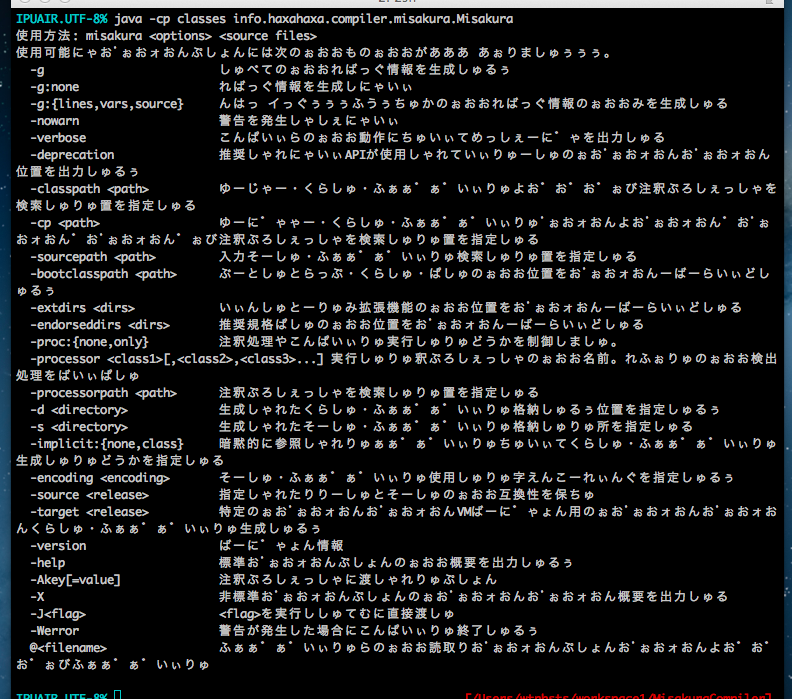
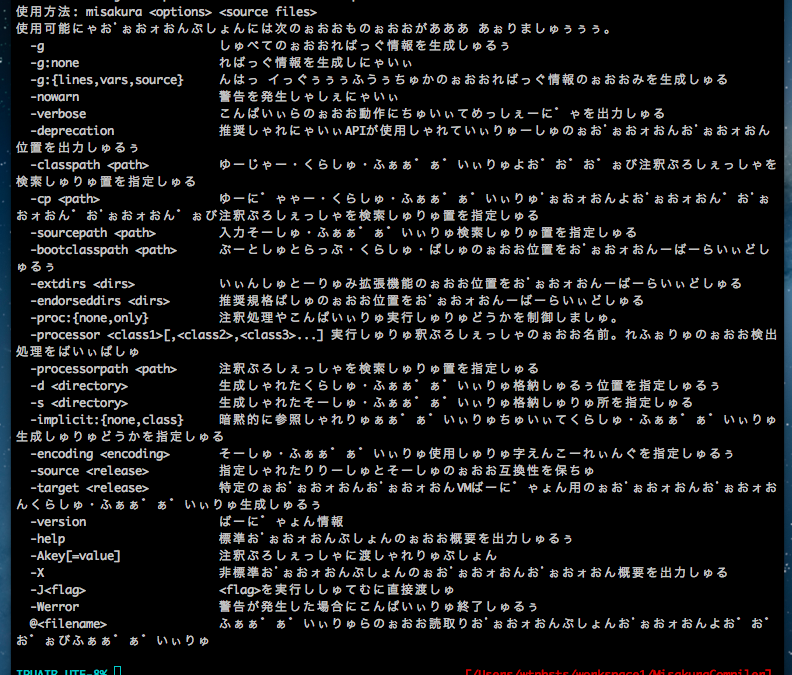
ライセンス条文追加 ピクチャのデータサイズ削減

Changed region(s): [[0.0, 0.0, 1.0, 0.9644], [0.9697, 0.4044, 1.0, 0.4356]]

diff --git a/src/info/haxahaxa/compiler/misakura/Misakura.java b/src/info/haxahaxa/compiler/misakura/Misakura.java
@@ -1,3 +1,30 @@
+/*
+ * The MIT License
+ * 
+ * Copyright (c) 2013 haxahaxa.info
+ * 
+ * Permission is hereby granted, free of charge, to any person
+ * obtaining a copy of this software and associated documentation
+ * files (the "Software"), to deal in the Software without
+ * restriction,including without limitation the rights to use,
+ * copy, modify, merge, publish, distribute, sublicense, and/or
+ * sell copies of the Software,and to permit persons to whom the
+ * Software is furnished to do so, subject to the following
+ * conditions:
+ * 
+ * The above copyright notice and this permission notice shall be
+ * included in all copies or substantial portions of the Software.
+ * 
+ * THE SOFTWARE IS PROVIDED "AS IS", WITHOUT WARRANTY OF ANY KIND,
+ * EXPRESS OR IMPLIED, INCLUDING BUT NOT LIMITED TO THE WARRANTIES
+ * OF MERCHANTABILITY, FITNESS FOR A PARTICULAR PURPOSE AND
+ * NONINFRINGEMENT. IN NO EVENT SHALL THE AUTHORS OR COPYRIGHT
+ * HOLDERS BE LIABLE FOR ANY CLAIM, DAMAGES OR OTHER LIABILITY,
+ * WHETHER IN AN ACTION OF CONTRACT, TORT OR OTHERWISE, ARISING
+ * FROM, OUT OF OR IN CONNECTION WITH THE SOFTWARE OR THE USE OR
+ * OTHER DEALINGS IN THE SOFTWARE.
+ */
+
 package info.haxahaxa.compiler.misakura;
 
 import info.haxahaxa.compiler.ArgumentImpl;

diff --git a/src/info/haxahaxa/compiler/CompileResultImpl.java b/src/info/haxahaxa/compiler/CompileResultImpl.java
@@ -1,3 +1,30 @@
+/*
+ * The MIT License
+ * 
+ * Copyright (c) 2013 haxahaxa.info
+ * 
+ * Permission is hereby granted, free of charge, to any person
+ * obtaining a copy of this software and associated documentation
+ * files (the "Software"), to deal in the Software without
+ * restriction,including without limitation the rights to use,
+ * copy, modify, merge, publish, distribute, sublicense, and/or
+ * sell copies of the Software,and to permit persons to whom the
+ * Software is furnished to do so, subject to the following
+ * conditions:
+ * 
+ * The above copyright notice and this permission notice shall be
+ * included in all copies or substantial portions of the Software.
+ * 
+ * THE SOFTWARE IS PROVIDED "AS IS", WITHOUT WARRANTY OF ANY KIND,
+ * EXPRESS OR IMPLIED, INCLUDING BUT NOT LIMITED TO THE WARRANTIES
+ * OF MERCHANTABILITY, FITNESS FOR A PARTICULAR PURPOSE AND
+ * NONINFRINGEMENT. IN NO EVENT SHALL THE AUTHORS OR COPYRIGHT
+ * HOLDERS BE LIABLE FOR ANY CLAIM, DAMAGES OR OTHER LIABILITY,
+ * WHETHER IN AN ACTION OF CONTRACT, TORT OR OTHERWISE, ARISING
+ * FROM, OUT OF OR IN CONNECTION WITH THE SOFTWARE OR THE USE OR
+ * OTHER DEALINGS IN THE SOFTWARE.
+ */
+
 package info.haxahaxa.compiler;
 
 import java.io.BufferedReader;

diff --git a/src/info/haxahaxa/compiler/IMessageBuilder.java b/src/info/haxahaxa/compiler/IMessageBuilder.java
@@ -1,3 +1,30 @@
+/*
+ * The MIT License
+ * 
+ * Copyright (c) 2013 haxahaxa.info
+ * 
+ * Permission is hereby granted, free of charge, to any person
+ * obtaining a copy of this software and associated documentation
+ * files (the "Software"), to deal in the Software without
+ * restriction,including without limitation the rights to use,
+ * copy, modify, merge, publish, distribute, sublicense, and/or
+ * sell copies of the Software,and to permit persons to whom the
+ * Software is furnished to do so, subject to the following
+ * conditions:
+ * 
+ * The above copyright notice and this permission notice shall be
+ * included in all copies or substantial portions of the Software.
+ * 
+ * THE SOFTWARE IS PROVIDED "AS IS", WITHOUT WARRANTY OF ANY KIND,
+ * EXPRESS OR IMPLIED, INCLUDING BUT NOT LIMITED TO THE WARRANTIES
+ * OF MERCHANTABILITY, FITNESS FOR A PARTICULAR PURPOSE AND
+ * NONINFRINGEMENT. IN NO EVENT SHALL THE AUTHORS OR COPYRIGHT
+ * HOLDERS BE LIABLE FOR ANY CLAIM, DAMAGES OR OTHER LIABILITY,
+ * WHETHER IN AN ACTION OF CONTRACT, TORT OR OTHERWISE, ARISING
+ * FROM, OUT OF OR IN CONNECTION WITH THE SOFTWARE OR THE USE OR
+ * OTHER DEALINGS IN THE SOFTWARE.
+ */
+
 package info.haxahaxa.compiler;
 
 import javax.tools.Diagnostic;

diff --git a/src/info/haxahaxa/compiler/SimpleMessageBuilder.java b/src/info/haxahaxa/compiler/SimpleMessageBuilder.java
@@ -1,3 +1,30 @@
+/*
+ * The MIT License
+ * 
+ * Copyright (c) 2013 haxahaxa.info
+ * 
+ * Permission is hereby granted, free of charge, to any person
+ * obtaining a copy of this software and associated documentation
+ * files (the "Software"), to deal in the Software without
+ * restriction,including without limitation the rights to use,
+ * copy, modify, merge, publish, distribute, sublicense, and/or
+ * sell copies of the Software,and to permit persons to whom the
+ * Software is furnished to do so, subject to the following
+ * conditions:
+ * 
+ * The above copyright notice and this permission notice shall be
+ * included in all copies or substantial portions of the Software.
+ * 
+ * THE SOFTWARE IS PROVIDED "AS IS", WITHOUT WARRANTY OF ANY KIND,
+ * EXPRESS OR IMPLIED, INCLUDING BUT NOT LIMITED TO THE WARRANTIES
+ * OF MERCHANTABILITY, FITNESS FOR A PARTICULAR PURPOSE AND
+ * NONINFRINGEMENT. IN NO EVENT SHALL THE AUTHORS OR COPYRIGHT
+ * HOLDERS BE LIABLE FOR ANY CLAIM, DAMAGES OR OTHER LIABILITY,
+ * WHETHER IN AN ACTION OF CONTRACT, TORT OR OTHERWISE, ARISING
+ * FROM, OUT OF OR IN CONNECTION WITH THE SOFTWARE OR THE USE OR
+ * OTHER DEALINGS IN THE SOFTWARE.
+ */
+
 package info.haxahaxa.compiler;
 
 import java.io.BufferedReader;

diff --git a/src/info/haxahaxa/compiler/ICompileResult.java b/src/info/haxahaxa/compiler/ICompileResult.java
@@ -1,3 +1,30 @@
+/*
+ * The MIT License
+ * 
+ * Copyright (c) 2013 haxahaxa.info
+ * 
+ * Permission is hereby granted, free of charge, to any person
+ * obtaining a copy of this software and associated documentation
+ * files (the "Software"), to deal in the Software without
+ * restriction,including without limitation the rights to use,
+ * copy, modify, merge, publish, distribute, sublicense, and/or
+ * sell copies of the Software,and to permit persons to whom the
+ * Software is furnished to do so, subject to the following
+ * conditions:
+ * 
+ * The above copyright notice and this permission notice shall be
+ * included in all copies or substantial portions of the Software.
+ * 
+ * THE SOFTWARE IS PROVIDED "AS IS", WITHOUT WARRANTY OF ANY KIND,
+ * EXPRESS OR IMPLIED, INCLUDING BUT NOT LIMITED TO THE WARRANTIES
+ * OF MERCHANTABILITY, FITNESS FOR A PARTICULAR PURPOSE AND
+ * NONINFRINGEMENT. IN NO EVENT SHALL THE AUTHORS OR COPYRIGHT
+ * HOLDERS BE LIABLE FOR ANY CLAIM, DAMAGES OR OTHER LIABILITY,
+ * WHETHER IN AN ACTION OF CONTRACT, TORT OR OTHERWISE, ARISING
+ * FROM, OUT OF OR IN CONNECTION WITH THE SOFTWARE OR THE USE OR
+ * OTHER DEALINGS IN THE SOFTWARE.
+ */
+
 package info.haxahaxa.compiler;
 
 import java.io.OutputStream;

diff --git a/src/info/haxahaxa/compiler/IArgument.java b/src/info/haxahaxa/compiler/IArgument.java
@@ -1,3 +1,30 @@
+/*
+ * The MIT License
+ * 
+ * Copyright (c) 2013 haxahaxa.info
+ * 
+ * Permission is hereby granted, free of charge, to any person
+ * obtaining a copy of this software and associated documentation
+ * files (the "Software"), to deal in the Software without
+ * restriction,including without limitation the rights to use,
+ * copy, modify, merge, publish, distribute, sublicense, and/or
+ * sell copies of the Software,and to permit persons to whom the
+ * Software is furnished to do so, subject to the following
+ * conditions:
+ * 
+ * The above copyright notice and this permission notice shall be
+ * included in all copies or substantial portions of the Software.
+ * 
+ * THE SOFTWARE IS PROVIDED "AS IS", WITHOUT WARRANTY OF ANY KIND,
+ * EXPRESS OR IMPLIED, INCLUDING BUT NOT LIMITED TO THE WARRANTIES
+ * OF MERCHANTABILITY, FITNESS FOR A PARTICULAR PURPOSE AND
+ * NONINFRINGEMENT. IN NO EVENT SHALL THE AUTHORS OR COPYRIGHT
+ * HOLDERS BE LIABLE FOR ANY CLAIM, DAMAGES OR OTHER LIABILITY,
+ * WHETHER IN AN ACTION OF CONTRACT, TORT OR OTHERWISE, ARISING
+ * FROM, OUT OF OR IN CONNECTION WITH THE SOFTWARE OR THE USE OR
+ * OTHER DEALINGS IN THE SOFTWARE.
+ */
+
 package info.haxahaxa.compiler;
 
 import java.util.List;

diff --git a/src/info/haxahaxa/compiler/ArgumentImpl.java b/src/info/haxahaxa/compiler/ArgumentImpl.java
@@ -1,3 +1,30 @@
+/*
+ * The MIT License
+ * 
+ * Copyright (c) 2013 haxahaxa.info
+ * 
+ * Permission is hereby granted, free of charge, to any person
+ * obtaining a copy of this software and associated documentation
+ * files (the "Software"), to deal in the Software without
+ * restriction,including without limitation the rights to use,
+ * copy, modify, merge, publish, distribute, sublicense, and/or
+ * sell copies of the Software,and to permit persons to whom the
+ * Software is furnished to do so, subject to the following
+ * conditions:
+ * 
+ * The above copyright notice and this permission notice shall be
+ * included in all copies or substantial portions of the Software.
+ * 
+ * THE SOFTWARE IS PROVIDED "AS IS", WITHOUT WARRANTY OF ANY KIND,
+ * EXPRESS OR IMPLIED, INCLUDING BUT NOT LIMITED TO THE WARRANTIES
+ * OF MERCHANTABILITY, FITNESS FOR A PARTICULAR PURPOSE AND
+ * NONINFRINGEMENT. IN NO EVENT SHALL THE AUTHORS OR COPYRIGHT
+ * HOLDERS BE LIABLE FOR ANY CLAIM, DAMAGES OR OTHER LIABILITY,
+ * WHETHER IN AN ACTION OF CONTRACT, TORT OR OTHERWISE, ARISING
+ * FROM, OUT OF OR IN CONNECTION WITH THE SOFTWARE OR THE USE OR
+ * OTHER DEALINGS IN THE SOFTWARE.
+ */
+
 package info.haxahaxa.compiler;
 
 import java.io.File;

diff --git a/src/info/haxahaxa/compiler/CompilerImpl.java b/src/info/haxahaxa/compiler/CompilerImpl.java
@@ -1,3 +1,30 @@
+/*
+ * The MIT License
+ * 
+ * Copyright (c) 2013 haxahaxa.info
+ * 
+ * Permission is hereby granted, free of charge, to any person
+ * obtaining a copy of this software and associated documentation
+ * files (the "Software"), to deal in the Software without
+ * restriction,including without limitation the rights to use,
+ * copy, modify, merge, publish, distribute, sublicense, and/or
+ * sell copies of the Software,and to permit persons to whom the
+ * Software is furnished to do so, subject to the following
+ * conditions:
+ * 
+ * The above copyright notice and this permission notice shall be
+ * included in all copies or substantial portions of the Software.
+ * 
+ * THE SOFTWARE IS PROVIDED "AS IS", WITHOUT WARRANTY OF ANY KIND,
+ * EXPRESS OR IMPLIED, INCLUDING BUT NOT LIMITED TO THE WARRANTIES
+ * OF MERCHANTABILITY, FITNESS FOR A PARTICULAR PURPOSE AND
+ * NONINFRINGEMENT. IN NO EVENT SHALL THE AUTHORS OR COPYRIGHT
+ * HOLDERS BE LIABLE FOR ANY CLAIM, DAMAGES OR OTHER LIABILITY,
+ * WHETHER IN AN ACTION OF CONTRACT, TORT OR OTHERWISE, ARISING
+ * FROM, OUT OF OR IN CONNECTION WITH THE SOFTWARE OR THE USE OR
+ * OTHER DEALINGS IN THE SOFTWARE.
+ */
+
 package info.haxahaxa.compiler;
 
 import java.io.File;

diff --git a/src/info/haxahaxa/compiler/ICompiler.java b/src/info/haxahaxa/compiler/ICompiler.java
@@ -1,3 +1,30 @@
+/*
+ * The MIT License
+ * 
+ * Copyright (c) 2013 haxahaxa.info
+ * 
+ * Permission is hereby granted, free of charge, to any person
+ * obtaining a copy of this software and associated documentation
+ * files (the "Software"), to deal in the Software without
+ * restriction,including without limitation the rights to use,
+ * copy, modify, merge, publish, distribute, sublicense, and/or
+ * sell copies of the Software,and to permit persons to whom the
+ * Software is furnished to do so, subject to the following
+ * conditions:
+ * 
+ * The above copyright notice and this permission notice shall be
+ * included in all copies or substantial portions of the Software.
+ * 
+ * THE SOFTWARE IS PROVIDED "AS IS", WITHOUT WARRANTY OF ANY KIND,
+ * EXPRESS OR IMPLIED, INCLUDING BUT NOT LIMITED TO THE WARRANTIES
+ * OF MERCHANTABILITY, FITNESS FOR A PARTICULAR PURPOSE AND
+ * NONINFRINGEMENT. IN NO EVENT SHALL THE AUTHORS OR COPYRIGHT
+ * HOLDERS BE LIABLE FOR ANY CLAIM, DAMAGES OR OTHER LIABILITY,
+ * WHETHER IN AN ACTION OF CONTRACT, TORT OR OTHERWISE, ARISING
+ * FROM, OUT OF OR IN CONNECTION WITH THE SOFTWARE OR THE USE OR
+ * OTHER DEALINGS IN THE SOFTWARE.
+ */
+
 package info.haxahaxa.compiler;
 
 import java.io.File;

diff --git a/README.md b/README.md
@@ -7,14 +7,15 @@ MisakuraCompiler
 ![Demo](https://raw.github.com/satanabe1/MisakuraCompiler/master/pic/demo2.png)  
 特別な事は何もできません．  
 
-#### Q．どうやって？
+#### Q．コンパイルは？
 コンパイルはMisakuraCompilerディレクトリでantを打てば通るはずです．  
 javacでヤルなら，srcディレクトリに移動して，  
 ```
 javac info/haxahaxa/compiler/misakura/Misakura.java
 ```  
-こんな感じです？  
+こんな感じです．  
   
+#### Q．どうやるの？
 実行にはコマンドラインで，  
 ```
 java info.haxahaxa.compiler.misakura.Misakura コンパイル引数...
@@ -33,4 +34,33 @@ java -jar misakura.jar コンパイル引数...
 
 誰かツンデレコンバータを作ってください．  
 
+ライセンス
+--
+ご自由にお使いください．
+ということで、MITライセンスのテンプレそのままです．
+
+#### The MIT License
+
+Copyright (c) 2013 haxahaxa.info
+
+Permission is hereby granted, free of charge, to any person
+obtaining a copy of this software and associated documentation
+files (the "Software"), to deal in the Software without
+restriction, including without limitation the rights to use,
+copy, modify, merge, publish, distribute, sublicense, and/or
+sell copies of the Software, and to permit persons to whom the
+Software is furnished to do so, subject to the following
+conditions:
+
+The above copyright notice and this permission notice shall be
+included in all copies or substantial portions of the Software.
+
+THE SOFTWARE IS PROVIDED "AS IS", WITHOUT WARRANTY OF ANY KIND,
+EXPRESS OR IMPLIED, INCLUDING BUT NOT LIMITED TO THE WARRANTIES
+OF MERCHANTABILITY, FITNESS FOR A PARTICULAR PURPOSE AND
+NONINFRINGEMENT. IN NO EVENT SHALL THE AUTHORS OR COPYRIGHT
+HOLDERS BE LIABLE FOR ANY CLAIM, DAMAGES OR OTHER LIABILITY,
+WHETHER IN AN ACTION OF CONTRACT, TORT OR OTHERWISE, ARISING
+FROM, OUT OF OR IN CONNECTION WITH THE SOFTWARE OR THE USE OR 
+OTHER DEALINGS IN THE SOFTWARE.
 
